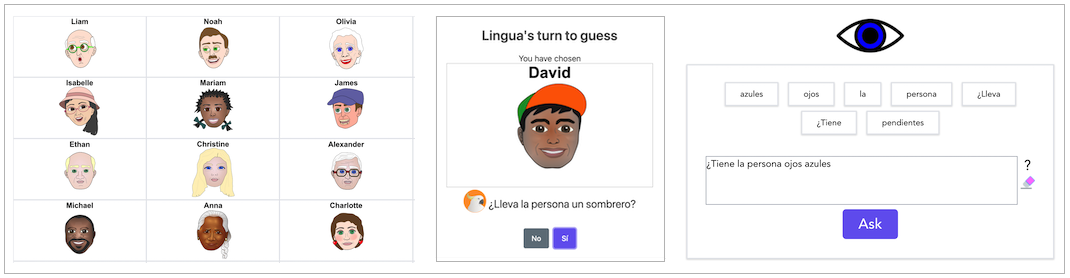
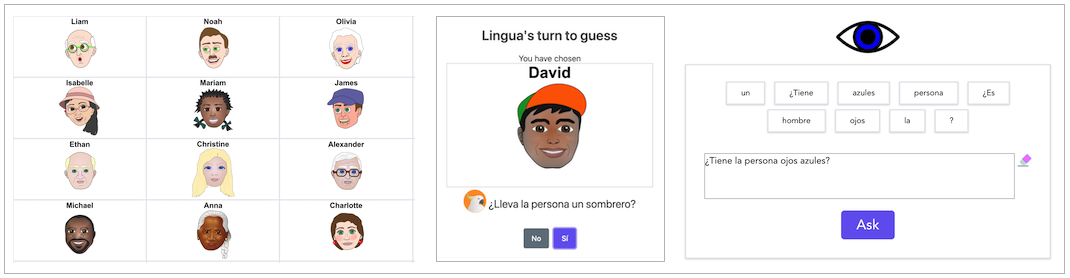
user has to add question mark themselves for jumbled sentence

diff --git a/src/components/JumbledSentence.vue b/src/components/JumbledSentence.vue
@@ -17,7 +17,6 @@
           <textarea readonly v-model="answer" id=answertext class="md:text-2xl text-base" />
         </div>
         <div>
-          ?<br />
           <img src="images/rubber.png" alt="rubber" id=rubber @click="erase()" />
         </div>
       </div>
@@ -78,7 +77,7 @@ export default defineComponent({
         return answer[0];
     },
     select(word: string): void {
-      if (this.answer.length > 0) {
+      if (this.answer.length > 0 && word != '?') {
         this.answer += " ";
       }
       this.answer += word;
@@ -91,7 +90,7 @@ export default defineComponent({
         let input = document.getElementById('answertext') as HTMLInputElement;
         let data = {
           chosenAttribute: this.attributeKey,
-          answerSentence: input.value.trim() + '?'
+          answerSentence: input.value.trim()
         };
         let response = await post<any>("/api/user-guess/verify-sentence", data);
 
